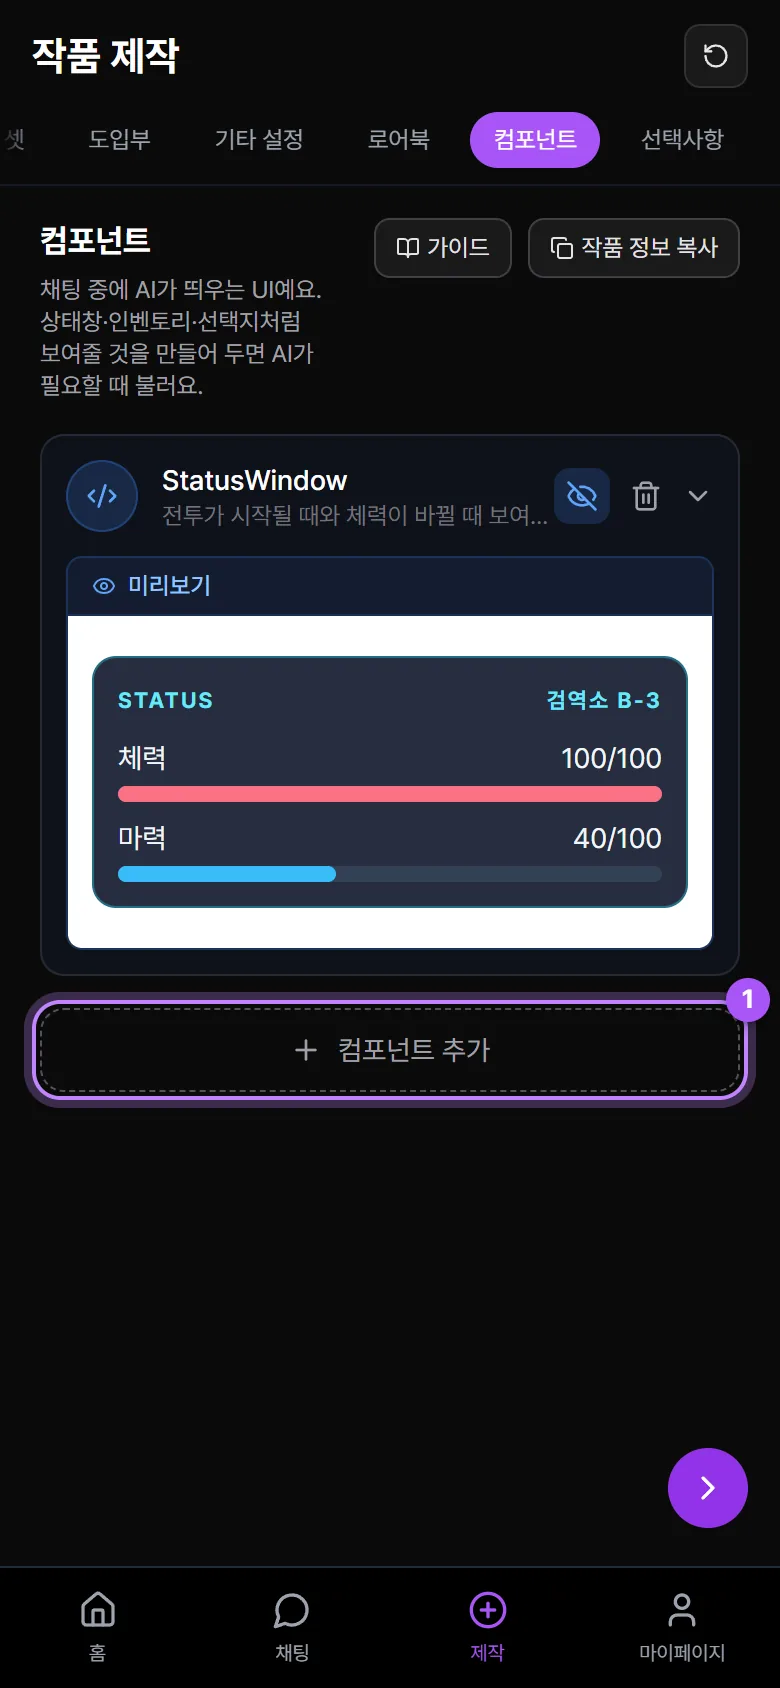
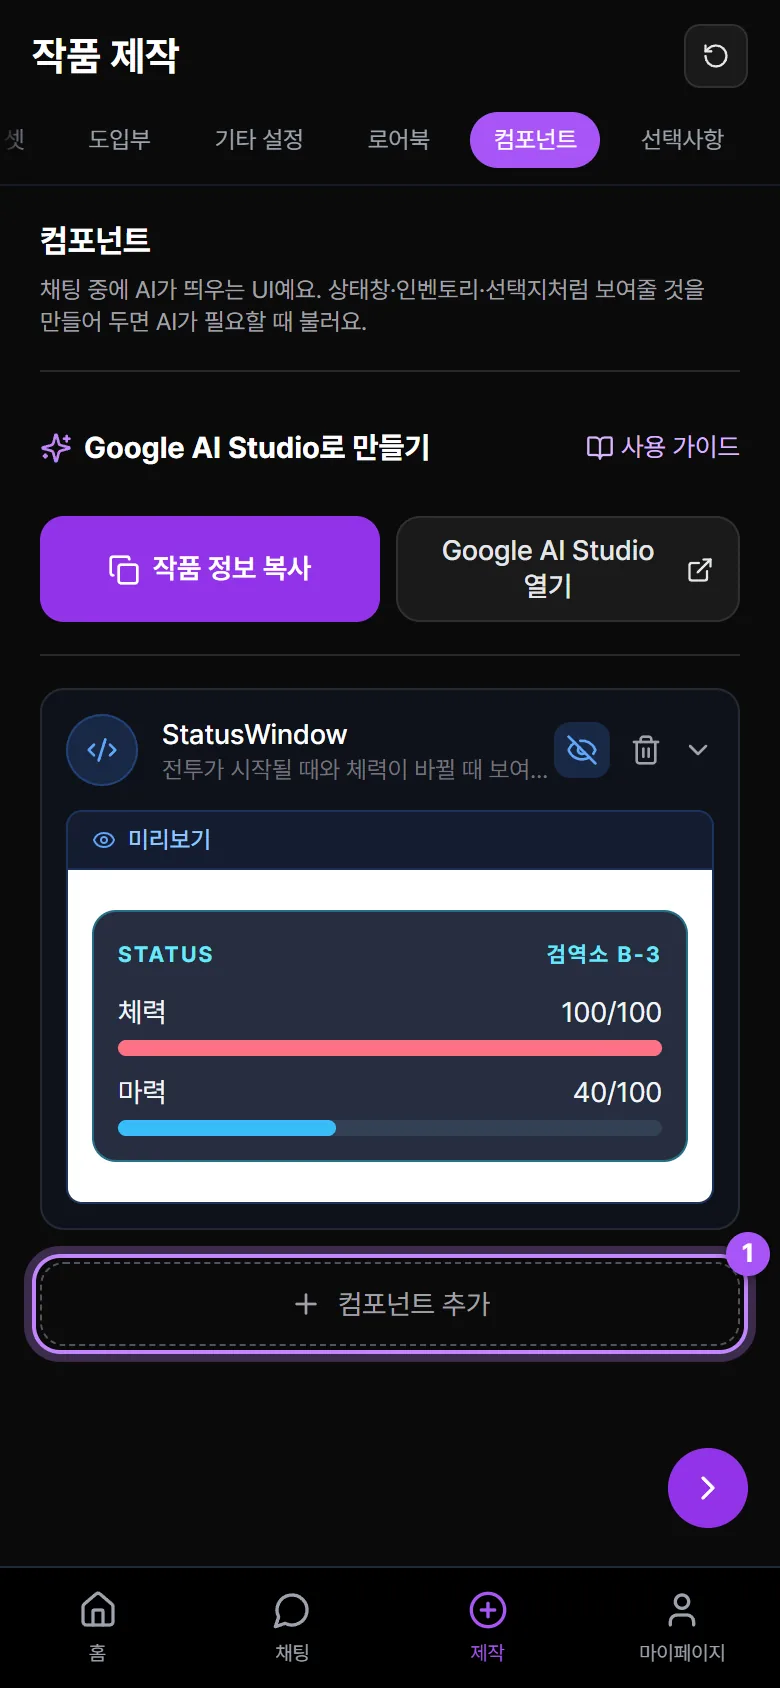
가이드: 간편 모드 컴포넌트·선택사항 단계 화면을 새 'Google AI Studio로 만들기' 블록으로 다시 찍음 (4개 언어, 설명 포함)
FE e634bc946 로 두 단계 위쪽의 '가이드'·'작품 정보 복사' 작은 버튼이 'Google AI Studio로 만들기' 블록(사용 가이드, 작품 정보 복사,
Google AI Studio 열기)으로 바뀌어 simple-components·simple-optional 을 네 언어 모두 다시 찍었다. 예시 작품·그림 크기·번호 표시는 그대로다.
C:\w\guide-capture 가 없어 FE local_scripts/FE/guide-screens-simple(스크래치 복사본·3100번·가짜 응답)로 찍었고, 처음 들어가면 뜨는
AI Studio 가이드 시트는 닫고 찍었다(README 캡처 절에 적음). 네 언어 extras 의 그림 설명과 최종 수정일을 맞췄다.

diff --git a/guide-site/i18n/en/docusaurus-plugin-content-docs/current/create/simple/extras.md b/guide-site/i18n/en/docusaurus-plugin-content-docs/current/create/simple/extras.md
@@ -4,7 +4,7 @@ description: Learn how to use Simple mode's optional steps, Lorebook, Components
 slug: /create/simple/extras
 sidebar_position: 5
 last_update:
-  date: 2026-10-24
+  date: 2026-10-25
 ---
 
 # Lorebook, components, and optional items
@@ -52,7 +52,7 @@ These are the example work's lore entries.
 
 A component is **UI the AI shows during a chat**. Build things you want to show, like a status window, an inventory, or choices, and the AI calls them when needed. You can make one without knowing code by using **Create with Google AI Studio**.
 
-<ScreenStep src="/img/screens/en/simple-components.webp" alt="The Components step. At the top are the Guide and Copy work context buttons, with a StatusWindow component card and its preview, and the Add component button" caption="The Components step">
+<ScreenStep src="/img/screens/en/simple-components.webp" alt="The Components step. At the top is Create with Google AI Studio (How to use, Copy work info, Open Google AI Studio), with a StatusWindow component card and its preview, and the Add component button" caption="The Components step">
 
 1. Select **Add component** to make a card.
 2. Unfold the card and paste your code into the **JSX code** field. The function name and variables are read from the code automatically.
@@ -127,7 +127,7 @@ The **Optional** step has a Description, recommended personas, and a Creator's N
 
 Decorate the text shown on the work page with HTML. If you don't use it, the work page shows the story setting and the character descriptions as they are.
 
-<ScreenStep src="/img/screens/en/simple-optional.webp" alt="The Optional step. Under Description, Use is chosen out of Use and Don't use, with the HTML field and the preview showing" caption="The Optional step · Description">
+<ScreenStep src="/img/screens/en/simple-optional.webp" alt="The Optional step. Under Description is Create with Google AI Studio, and Use is chosen out of Use and Don't use, with the HTML field and the preview showing" caption="The Optional step · Description">
 
 1. Choose between **Use** and **Don't use**. **Don't use** means only the standard profile is used.
 2. If you choose **Use**, the HTML field appears. It can hold up to 50,000 characters.

diff --git a/guide-site/README.md b/guide-site/README.md
@@ -223,6 +223,7 @@ GitBook의 `{% hint %}` 블록은 Docusaurus admonition으로 자동 변환됨:
 
 **2026-10-07부터 문서에서 쓰는 제작 가이드 화면은 네 언어 모두 실제 웹 앱 캡처다**(언어별 69장). 문서에서 쓰지 않는 `legacy-assets`·`legacy-editor` 두 장만 예전 그림 그대로다. 찍는 도구는 사용자 PC 의 `C:\w\guide-capture`(Git 밖, 사용법은 `tools/README.md`)에 있다. origin/main 을 스크래치 복사본으로 뽑아 개발 서버(3100번)에서 찍고, API 는 가짜 응답으로 가로채며 외부 요청은 막는다. 예시 작품의 글은 각 언어 문서의 코드 블록과 표에서 읽어 문서와 화면이 글자까지 같다. 앱 화면이 바뀌면 같은 이름으로 다시 찍어 덮어쓴다.
 
+- 2026-10-25 에 간편 모드 `simple-components`·`simple-optional`(네 언어)을 'Google AI Studio로 만들기' 블록이 바뀐 화면으로 다시 찍었다. `C:\w\guide-capture` 가 이 PC 에 없어 FE 저장소의 `local_scripts/FE/guide-screens-simple`(같은 스크래치 복사본·3100번·가짜 응답 방식, 사용법은 그 폴더 README)로 찍었다. 그 단계에 처음 들어가면 뜨는 AI Studio 가이드 시트는 닫고 찍는다.
 - 추천 그림체 썸네일은 운영 공개 API(`/contents/recommended-image-styles`)가 주는 그림을 한 번 받아 쓴다. 추천 태그 이름은 앱 상수에서, 상수에 없는 예시 태그(지하철역·까칠한 수염 등)는 서버 번역(`tags_v4.translations`)에서 고른다.
 - 기본형의 조립된 프롬프트는 BE 조립 함수를 그대로 불러 찍는다. BE 템플릿이 한국어뿐이라 세 언어판 그림에도 `### 작품 정보` 같은 한국어 제목과 규칙 문장이 보인다(앱과 같다).
 - 추천 페르소나 카드 머리의 성별은 앱이 저장값(`여성`)을 그대로 보여 줘 모든 언어에서 한국어로 나온다(앱과 같다).
